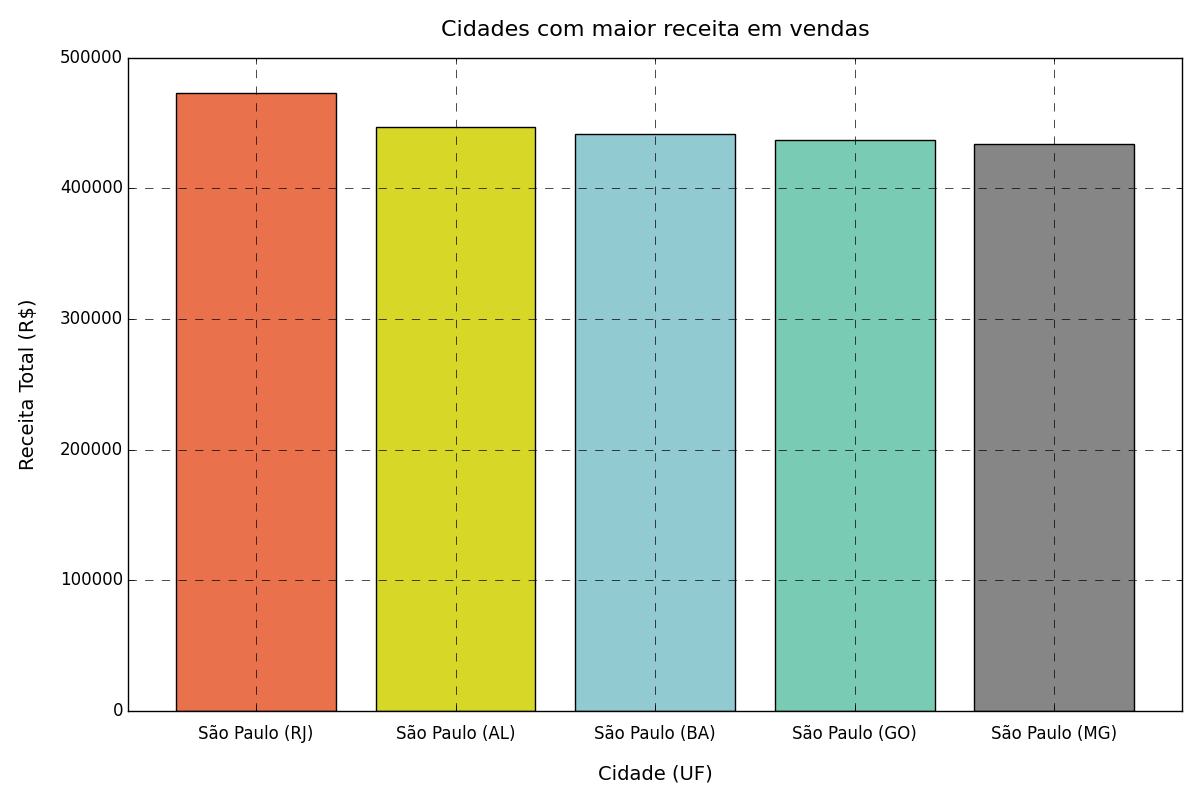
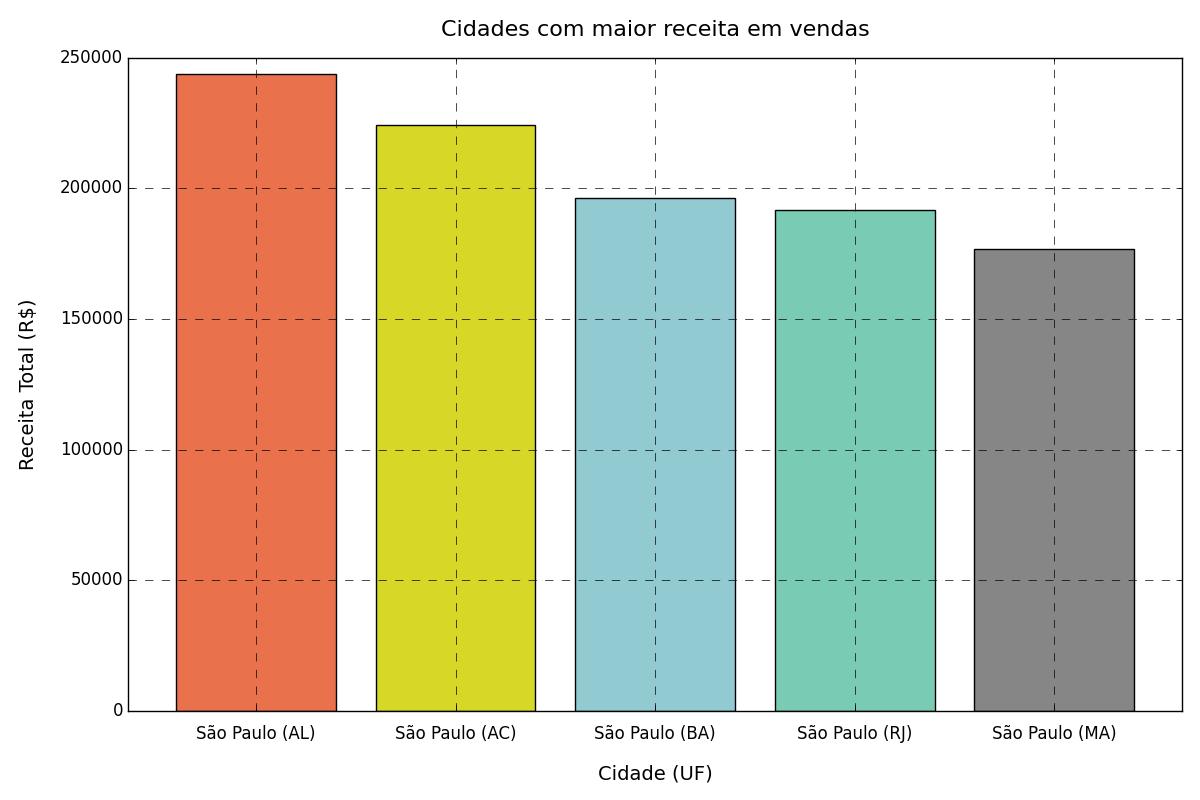
quase finalizado

diff --git a/analise.py b/analise.py
@@ -9,6 +9,8 @@ df_pedidos     = pd.read_csv('data/pedidos.csv')
 df_produtos    = pd.read_csv('data/produtos.csv')
 
 # -- Tratamento de Dados --
+
+# --- Parte 1: Dados de clientes ---
 # Percebi que alguns itens da coluna de cidades como São Paulo e Goiânia estão digitados de forma diferente.
 # Portanto, o trecho abaixo foi feito para fazer a limpeza desses dados e padronizar o nome dessas cidades, 
 # a fim de obter uma análise mais clara e um melhor entendimento das informações. 
@@ -25,6 +27,18 @@ df_clientes['cidade'] = df_clientes['cidade'].replace('Maranhao','Maranhão')
 
 # 'Goiania' -> 'Goiânia'
 df_clientes['cidade'] = df_clientes['cidade'].replace('Goiania','Goiânia')
+
+# --- Parte 2: Dados de produtos ---
+# No arquivo contendo os dados a respeito dos produtos, também é possível perceber
+# duplicações nos nomes de categorias. Dessa forma, também realizei no trecho abaixo 
+# o tratamento dessas inconsistências para padronização no nome das categorias,
+# evitando duplicação e facilitando a análise.
+
+# 'Decoraçao' -> 'Decoração'
+df_produtos['categoria'] = df_produtos['categoria'].replace('Decoraçao','Decoração')
+
+# 'Eletronicos' -> 'Eletrônicos'
+df_produtos['categoria'] = df_produtos['categoria'].replace('Eletronicos','Eletrônicos')
 
 # ------------- Análise | Desempenho dos grupos de clientes -------------
 # Status de pedido: Confirmado, CANCELADO e Pending
@@ -54,12 +68,13 @@ SELECT
         p.status = 'Confirmado' 
         THEN p.valor_total 
         END) AS Receita_Total,
-    ROUND((SUM(CASE WHEN p.status = 'Confirmado' THEN p.valor_total ELSE 0 END)) / 
+    ROUND((SUM(CASE WHEN p.status = 'Confirmado' THEN p.valor_total END)) / 
           (COUNT(DISTINCT c.cliente_id) * 1.0)
           ,2) AS Receita_Media
     FROM df_clientes AS c
-    JOIN df_pedidos  AS p
-    ON c.cliente_id = p.cliente_id
+    JOIN 
+        df_pedidos  AS p
+        ON c.cliente_id = p.cliente_id
     GROUP BY c.grupo
     ORDER BY Valor_Total DESC
 """
@@ -102,6 +117,23 @@ f_stat, p_value = f_oneway(grupo_A, grupo_B, grupo_C)
 # apontavam o mesmo como o grupo mais benéfico neste sentido.
 
 # Trecho abaixo realizado para geração de gráficos e visualização dos dados acima
+
+# --- Gráfico comparando taxas de conversão entre os grupos
+""" df_conversao_grupos = sqldf(query_comparacao_grupos)
+cores = ['#0457ac','#308fac','#37bd79','#a7e237','#f4e604']
+plt.style.use('classic')
+plt.figure(figsize=(12,8))
+plt.bar(df_conversao_grupos['Estado'], df_conversao_grupos['Valor_Total'], color=cores, edgecolor='black')
+plt.title('Estados com maior receita em vendas', fontsize=16, pad=16)
+plt.xlabel('Estado', fontsize=14, labelpad=16)
+plt.ylabel('Receita Total (R$)', fontsize=14, labelpad=16)
+plt.xticks(rotation=0)
+plt.tick_params(axis='x', which='major', pad=10)
+plt.margins(x=0.05)
+plt.grid(True, linestyle='--')
+plt.tight_layout() """
+
+# --- Gráfico comparando porcentagens do total da receita por grupo ---
 df_comparacao_grupos = sqldf(query_comparacao_grupos)
 cores = ['#6800ff','#0084ff',"#00e677"]
 plt.style.use('classic')
@@ -123,16 +155,88 @@ plt.title('Receita total por Grupo', fontsize=19, pad=16)
 # Descomente a linha abaixo caso queira salvar novamente o gráfico gerado.
 # plt.savefig('graficos/questao1/receita_total_grupo.png')
 
+# OBS: Como o Grupo B foi o escolhido na questão 1, as próximas análises serão
+# feitas considerando apenas os clientes ou pedidos que pertencerem a este grupo.
+
 # 2. De acordo com suas análises, o estado do usuário influencia no valor das vendas? 
 # -----------------------------------------------------------------------------------
-# Para esta análise, decidi seguir um fluxo contendo duas análises:
-# 1. Comparação de receita média por estado;
-# 2. Comparação da taxa de conversão por estado para compras válidas.
+# Para esta análise, decidi comparar as seguintes informações:
+# 1. Receita média por estado;
+# 2. Taxa de conversão por estado para compras válidas.
 
 query_influencia_estados = """
 SELECT
-
+    c.estado AS Estado,
+    COUNT(DISTINCT c.cliente_id) AS Total_Clientes,
+    COUNT(DISTINCT 
+        CASE WHEN 
+        p.status = 'Confirmado' 
+        THEN c.cliente_id
+        END) AS Total_Compraram,
+    ROUND(((COUNT(DISTINCT CASE WHEN p.status = 'Confirmado' THEN c.cliente_id END) 
+            / (COUNT(DISTINCT c.cliente_id) * 1.0)) * 100), 2) 
+            AS Taxa_Conversao,
+    COUNT(CASE WHEN
+         p.status = 'Confirmado'
+         THEN p.pedido_id 
+         END) AS Num_Pedidos,
+    SUM(CASE WHEN
+          p.status = 'Confirmado'
+          THEN p.valor_total 
+          END) AS Receita_Total,
+    ROUND(AVG(CASE WHEN
+        p.status = 'Confirmado'
+        THEN p.valor_total
+        END), 2) AS Receita_Media_Pedido,
+    ROUND((SUM(CASE WHEN
+          p.status = 'Confirmado'
+          THEN p.valor_total END))
+          / (COUNT(DISTINCT c.cliente_id) * 1.0), 2) AS Receita_Media_Cliente
+    FROM df_clientes AS c
+    JOIN 
+        df_pedidos  AS p
+        ON c.cliente_id = p.cliente_id
+    WHERE c.grupo = 'B'
+    GROUP BY c.estado
+    ORDER BY Receita_Total DESC, Receita_Media_Pedido DESC, Receita_Media_Cliente DESC
 """
+# Caso queira ver os resultados pelo terminal, descomente as linhas abaixo e rode o arquivo (py analise.py):
+# print('--- Comparação entre Estados e Receitas: ---')
+# print(sqldf(query_influencia_estados).to_string(index=False))
+
+# Ao observar os dados da consulta acima, é possível afirmar que o estado influencia sim
+# no valor das vendas. Isso é perceptível pelas diferenças encontradas em diferentes métricas, 
+# como a receita média por pedido (AOV), receita média por cliente (ARPU) e receita total.
+# Apesar da semelhança entre as taxas de conversão dos estados (todos foram 100%), é
+# possível notar a variância entre os valores das métricas citadas acima, com a receita média
+# por pedido indo de R$ 3.020,79 (RR) até R$ 3.856,35 (PE), a receita média por cliente
+# indo de R$ 14.249,92 (RN) até R$ 25.058,27 (MG) e, por fim, a receita total variando de R$ 131.898 (RS)
+# até R$ 464.027 (TO), demonstrando uma diferença muito significativa de aproximadamente 251%.
+# Além disso, também é válido apontar a diferença nos números de pedidos por estado, sendo alguns tendo
+# entre 38 e 60 pedidos, enquanto os de maior receita ultrapassam 100 pedidos.
+# Assim, é possível reafirmar que o estado acaba sim influenciando no valor das vendas, já que se nota
+# a diferença de engajamento e comportamento de alguns estados em relação às compras.
+
+# Geração de gráfico para visualização
+df_influencia_estados = sqldf(query_influencia_estados)
+df_influencia_estados['Porcentagem'] = ((df_influencia_estados['Receita_Total'] / df_influencia_estados['Receita_Total'].sum()) * 100).round(2)
+df_influencia_estados = df_influencia_estados.head(10).sort_values(by='Porcentagem', ascending=True)
+
+cores = ['#e07a5f', '#3d405b', '#81b29a', '#f2cc8f', "#8c9491"]
+plt.style.use('classic')
+plt.figure(figsize=(12,8))
+plt.barh(df_influencia_estados['Estado'], df_influencia_estados['Porcentagem'], color=cores, edgecolor='black')
+plt.title('10 estados com maior participação da receita total', fontsize=16, pad=16)
+plt.xlabel('Percentual (%)', fontsize=14, labelpad=16)
+plt.ylabel('Estado', fontsize=14, labelpad=16)
+plt.xticks(rotation=0)
+plt.tick_params(axis='y', which='major', pad=10)
+plt.margins(y=0.05)
+plt.grid(True, linestyle='--')
+plt.tight_layout()
+
+# Descomente a linha abaixo caso queira salvar novamente o gráfico gerado.
+# plt.savefig('graficos/questao2/estados_percentual.png')
 
 # 3. Quais são os estados e cidades com maior valor em vendas? Liste-os em ordem decrescente.
 # -------------------------------------------------------------------------------------------
@@ -148,9 +252,11 @@ SELECT
     c.estado AS Estado,
     SUM(p.valor_total) AS Valor_Total 
     FROM df_clientes AS c
-    JOIN df_pedidos  AS p
-    ON c.cliente_id = p.cliente_id
-    WHERE p.status = 'Confirmado'
+    JOIN 
+        df_pedidos  AS p
+        ON c.cliente_id = p.cliente_id
+    WHERE p.status = 'Confirmado' AND
+          c.grupo  = 'B'
     GROUP BY c.estado
     ORDER BY Valor_Total DESC
     LIMIT 5
@@ -183,9 +289,11 @@ SELECT
     c.estado AS Estado,
     SUM(p.valor_total) AS Valor_Total
     FROM df_clientes AS c
-    JOIN df_pedidos  AS p
-    ON c.cliente_id = p.cliente_id
-    WHERE p.status = 'Confirmado'
+    JOIN 
+        df_pedidos  AS p
+        ON c.cliente_id = p.cliente_id
+    WHERE p.status = 'Confirmado' AND
+          c.grupo  = 'B'
     GROUP BY c.cidade, c.estado
     ORDER BY Valor_Total DESC
     LIMIT 5
@@ -208,7 +316,7 @@ plt.title('Cidades com maior receita em vendas', fontsize=16, pad=16)
 plt.xlabel('Cidade (UF)', fontsize=14, labelpad=16)
 plt.ylabel('Receita Total (R$)', fontsize=14, labelpad=16)
 plt.xticks(rotation=0)
-plt.tick_params(axis='x', which='major', pad=10)
+plt.tick_params(axis='x', pad=10)
 plt.margins(x=0.05)
 plt.grid(True, linestyle='--')
 plt.tight_layout()
@@ -218,7 +326,178 @@ plt.tight_layout()
 
 # 4. A categoria do produto ou quantidade de itens do pedido influencia no status no pedido?
 # ------------------------------------------------------------------------------------------
+# Parte 1: Influência da categoria
+# Para poder responder esta questão, decidi fazer duas comparações em duas consultas diferentes:
+# 1. Número de pedidos confirmados e cancelados por categoria;
+# 2. Número de pedidos confirmados e cancelados por número de itens no pedido.
+# Junto a essa quantidade, também vou calcular em uma outra coluna a porcentagem
+# desses pedidos confirmados e cancelados. Abaixo estão as queries escritas:
 
+# Análise da influência da categoria no status do pedido
+query_influencia_categoria = """
+SELECT 
+    prod.categoria AS Categoria,
+    COUNT(DISTINCT p.pedido_id) AS Num_Pedidos,
+    COUNT(DISTINCT CASE WHEN
+         p.status = 'Confirmado'
+         THEN p.pedido_id
+         END) AS Num_Confirmados,
+    COUNT(DISTINCT CASE WHEN
+         p.status = 'CANCELADO'
+         THEN p.pedido_id
+         END) AS Num_Cancelados,
+    COUNT(DISTINCT CASE WHEN
+         p.status = 'Pending'
+         THEN p.pedido_id
+         END) AS Num_Pendentes,
+    ROUND(COUNT(DISTINCT CASE WHEN
+         p.status = 'CANCELADO'
+         THEN p.pedido_id
+         END) * 1.0
+         / COUNT(DISTINCT p.pedido_id) * 100, 2) AS Taxa_Cancelamento
+    FROM  
+        df_produtos AS prod
+    JOIN 
+        df_itenspedido AS i
+        ON i.produto_id = prod.produto_id
+    JOIN 
+        df_pedidos AS p
+        ON p.pedido_id = i.pedido_id
+    GROUP BY prod.categoria
+    ORDER BY Num_Pedidos DESC
+"""
+# Caso queira ver os resultados pelo terminal, descomente as linhas abaixo e rode o arquivo (py analise.py):
+# print('\n--- Comparação de pedidos entre categorias: ---')
+# print(sqldf(query_influencia_categoria).to_string(index=False))
+
+# Com a consulta acima, podemos dizer a categoria do produto influencia sim no
+# status do pedido. É possível concluir isso ao perceber a diferença entre a menor
+# taxa de cancelamento (15.3), da categoria 'Brinquedos' e a maior taxa de cance-
+# lamento (17.12), da categoria 'Roupas'.
+# Esta diferença provavelmente se dá ao fato das roupas terem uma maior proba-
+# bilidade de virem com algum defeito ou insatisfação com o tamanho pedido,
+# gerando assim mais trocas e devoluções em relação aos brinquedos por exemplo,
+# que são compras mais específicas de forma geral.
+
+# Geração dos gráficos referentes a influência da categoria no status do pedido
+df_influencia_categoria = sqldf(query_influencia_categoria)
+
+# 1° Gráfico: Total de Pedidos + Status
+plt.style.use('classic')
+plt.figure(figsize=(12,8))
+plt.bar(df_influencia_categoria['Categoria'], df_influencia_categoria['Num_Pendentes'],
+        bottom=df_influencia_categoria['Num_Cancelados'] + df_influencia_categoria['Num_Confirmados'],
+         color='#ffb703', edgecolor='black', label='Pendentes')
+plt.bar(df_influencia_categoria['Categoria'], df_influencia_categoria['Num_Cancelados'],
+        bottom=df_influencia_categoria['Num_Confirmados'], color='#ff6666', edgecolor='black', label='Cancelados')
+plt.bar(df_influencia_categoria['Categoria'], df_influencia_categoria['Num_Confirmados'], 
+        color='#6aa84f', edgecolor='black', label='Confirmados')
+plt.title('Comparação de pedidos entre categorias', fontsize=16, pad=16)
+plt.xlabel('Categoria', fontsize=14, labelpad=16)
+plt.ylabel('Total de Pedidos', fontsize=14, labelpad=16)
+plt.xticks(rotation=0)
+plt.tick_params(axis='x', pad=10)
+plt.margins(x=0.03)
+plt.grid(True, linestyle='--')
+plt.legend()
+plt.tight_layout()
+
+# Descomente a linha abaixo caso queira salvar novamente o gráfico gerado.
+# plt.savefig('graficos/questao4/influencia_categoria_pedidos.png')
+
+df_influencia_categoria = df_influencia_categoria.sort_values(by='Taxa_Cancelamento', ascending=False)
+
+# 2° Gráfico: Taxa de cancelamento
+plt.style.use('classic')
+plt.figure(figsize=(12,8))
+plt.plot(df_influencia_categoria['Categoria'], df_influencia_categoria['Taxa_Cancelamento'], 
+         marker='o', markerfacecolor='#1400c9', color='#cb05f2', markersize='8')
+plt.title('Taxa de cancelamento por categoria', fontsize=16, pad=16, color='#db261d')
+plt.xlabel('Categoria', fontsize=14, labelpad=16, color="#db261d")
+plt.ylabel('Taxa de Cancelamento (%)', fontsize=14, labelpad=16, color='#db261d')
+plt.xticks(rotation=0)
+plt.tick_params(axis='x', pad=10)
+plt.margins(x=0.05)
+plt.grid(True, linestyle='--')
+plt.tight_layout()
+
+# Descomente a linha abaixo caso queira salvar novamente o gráfico gerado.
+# plt.savefig('graficos/questao4/influencia_categoria_cancelamento.png')
+
+# Parte 2: Influência da quantidade de itens no pedido
+# Para esta análise, separei os pedidos por categorias específicas de 
+# tamanho, sendo pedidos de tamanho pequeno (com 1 a 3 itens), pedidos
+# de tamanho médio (com 3 a 6 itens) e pedidos de tamanho grande
+# (com 7 itens ou mais). A partir disso, calculei a taxa de cancelamento
+# referente a cada uma dessas categorias criadas para realizar as observações.
+
+query_influencia_itens = """
+WITH SomaItens AS 
+    (SELECT 
+        pedido_id, 
+        SUM(quantidade) AS total_itens
+    FROM df_itenspedido
+    GROUP BY pedido_id),
+Categorias AS 
+    (SELECT 
+        p.pedido_id,
+        p.status,
+        s.total_itens,
+        CASE 
+            WHEN s.total_itens <= 3 THEN 'Pequeno (1-3 itens)'
+            WHEN s.total_itens <= 6 THEN 'Médio (3-6 itens)'
+            ELSE 'Grande (7-+ itens)'
+        END AS Tamanho_Pedido
+    FROM df_pedidos p
+    JOIN SomaItens AS s 
+        ON p.pedido_id = s.pedido_id)
+SELECT 
+    Tamanho_Pedido,
+    COUNT(*) as Num_Pedidos,
+    SUM(CASE WHEN status = 'Confirmado' THEN 1 ELSE 0 END) AS Num_Confirmados,
+    SUM(CASE WHEN status = 'CANCELADO'  THEN 1 ELSE 0 END) AS Num_Cancelados,
+    SUM(CASE WHEN status = 'Pending'    THEN 1 ELSE 0 END) AS Num_Pendentes,
+    ROUND((SUM(CASE WHEN status = 'CANCELADO' THEN 1.0 ELSE 0.0 END) 
+         / COUNT(*)) * 100, 2) AS Taxa_Cancelamento
+FROM Categorias
+GROUP BY Tamanho_Pedido
+ORDER BY Tamanho_Pedido;
+"""
+# Caso queira ver os resultados pelo terminal, descomente as linhas abaixo e rode o arquivo (py analise.py):
+# print('\n--- Comparação entre número de itens do pedido: ---')
+print(sqldf(query_influencia_itens).to_string(index=False))
+
+# Com a consulta acima, temos que a maior taxa de cancelamento (17.92%) se trata
+# de pedidos pequenos, com 1 a 3 itens  e a menor taxa de cancelamento (16.17%)
+# pertence a pedidos grandes (7 itens ou mais). Portanto, essa informação
+# nos permite afirmar que, apesar da diferença ser baixa, o número de itens
+# do pedido acaba sim influenciando o status do mesmo, já que pedidos maiores
+# acabam sendo de certa forma compras mais decididas, gerando uma taxa de can-
+# celamento menor em relação a pedidos médios ou pequenos.
+
+# Geração dos gráfico referente a influência do número de itens no status do pedido
+df_influencia_itens = sqldf(query_influencia_itens)
+
+valores_externo = []
+cores_externo = []
+labels_para_legenda = []
+
+cor_conf = '#27ae60' # Verde
+cor_canc = '#c0392b' # Vermelho
+cor_pend = '#95a5a6' # Cinza
+
+plt.figure(figsize=(10, 10))
+plt.pie(valores_externo, radius=1.0, colors=cores_externo, labels=labels_para_legenda,
+        wedgeprops=dict(width=0.3, edgecolor='white'), labeldistance=None)
+plt.pie(df_influencia_itens['Num_Pedidos'], radius=0.7, labels=df_influencia_itens['Tamanho_Pedido'], 
+        labeldistance=0.6, colors=['#5dade2', '#2980b9', '#1a5276'], 
+        wedgeprops=dict(width=0.3, edgecolor='white'),
+        textprops={'color': 'white', 'weight': 'bold', 'fontsize': 11})
+plt.legend(loc='center', title="Status", frameon=False)
+plt.title('Distribuição: Tamanho vs. Status')
+plt.tight_layout()
+plt.savefig('graficos/questao5/influencia_itens.png')
 
 # 5. Outras métricas
 # ------------------
+